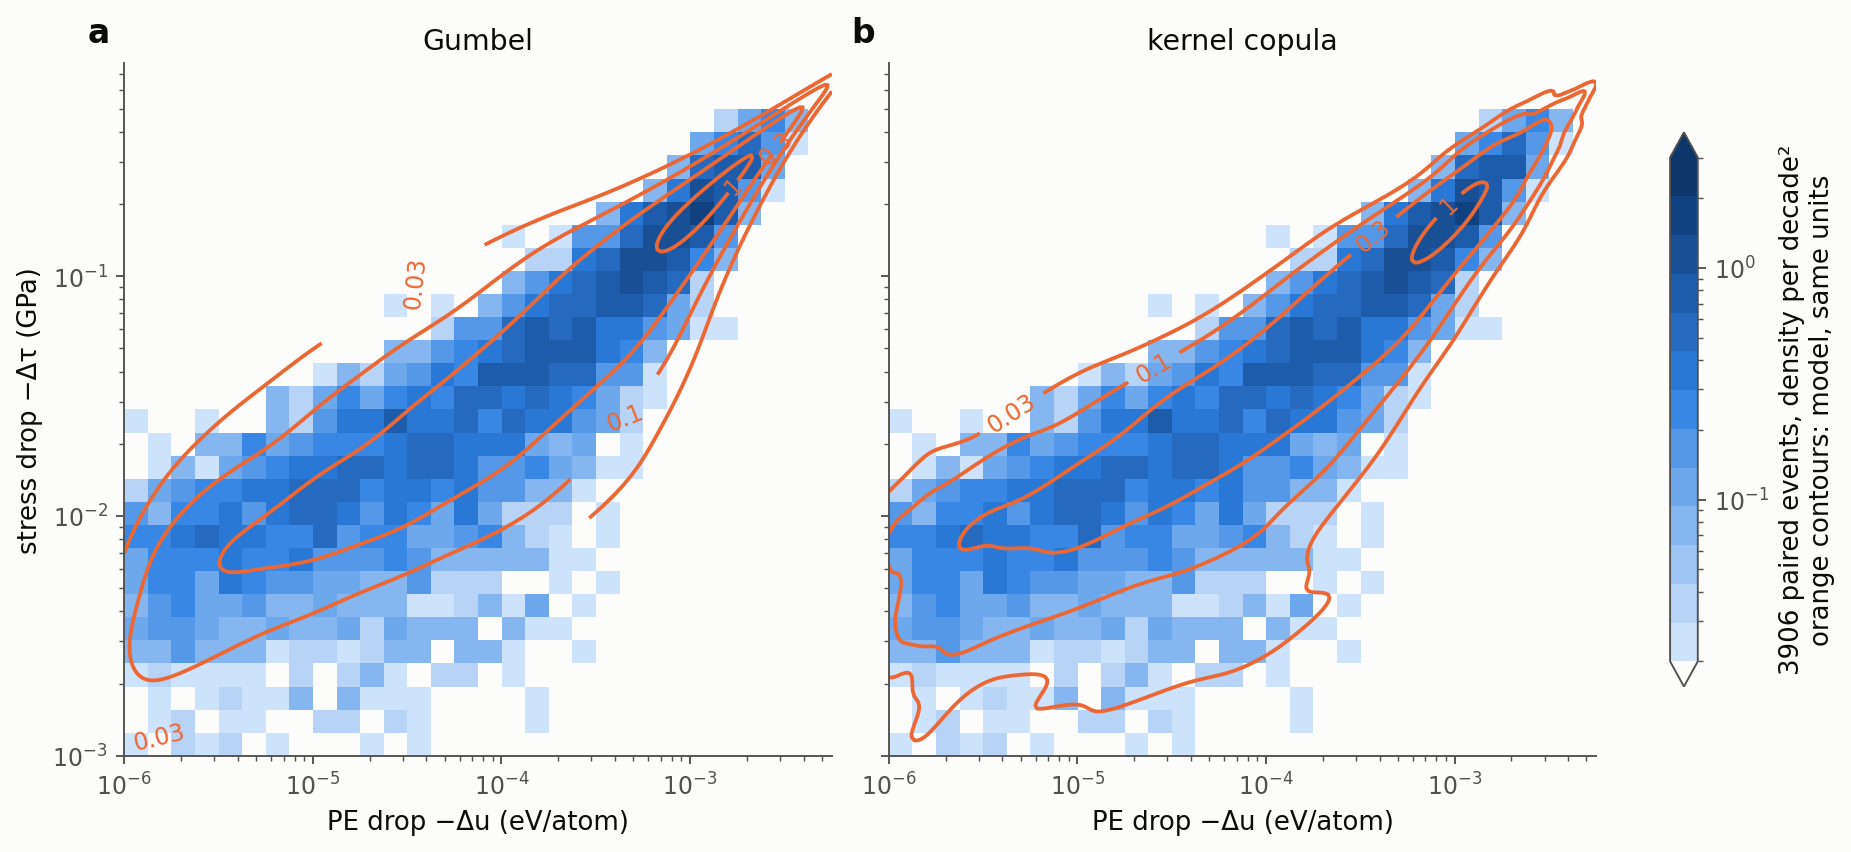
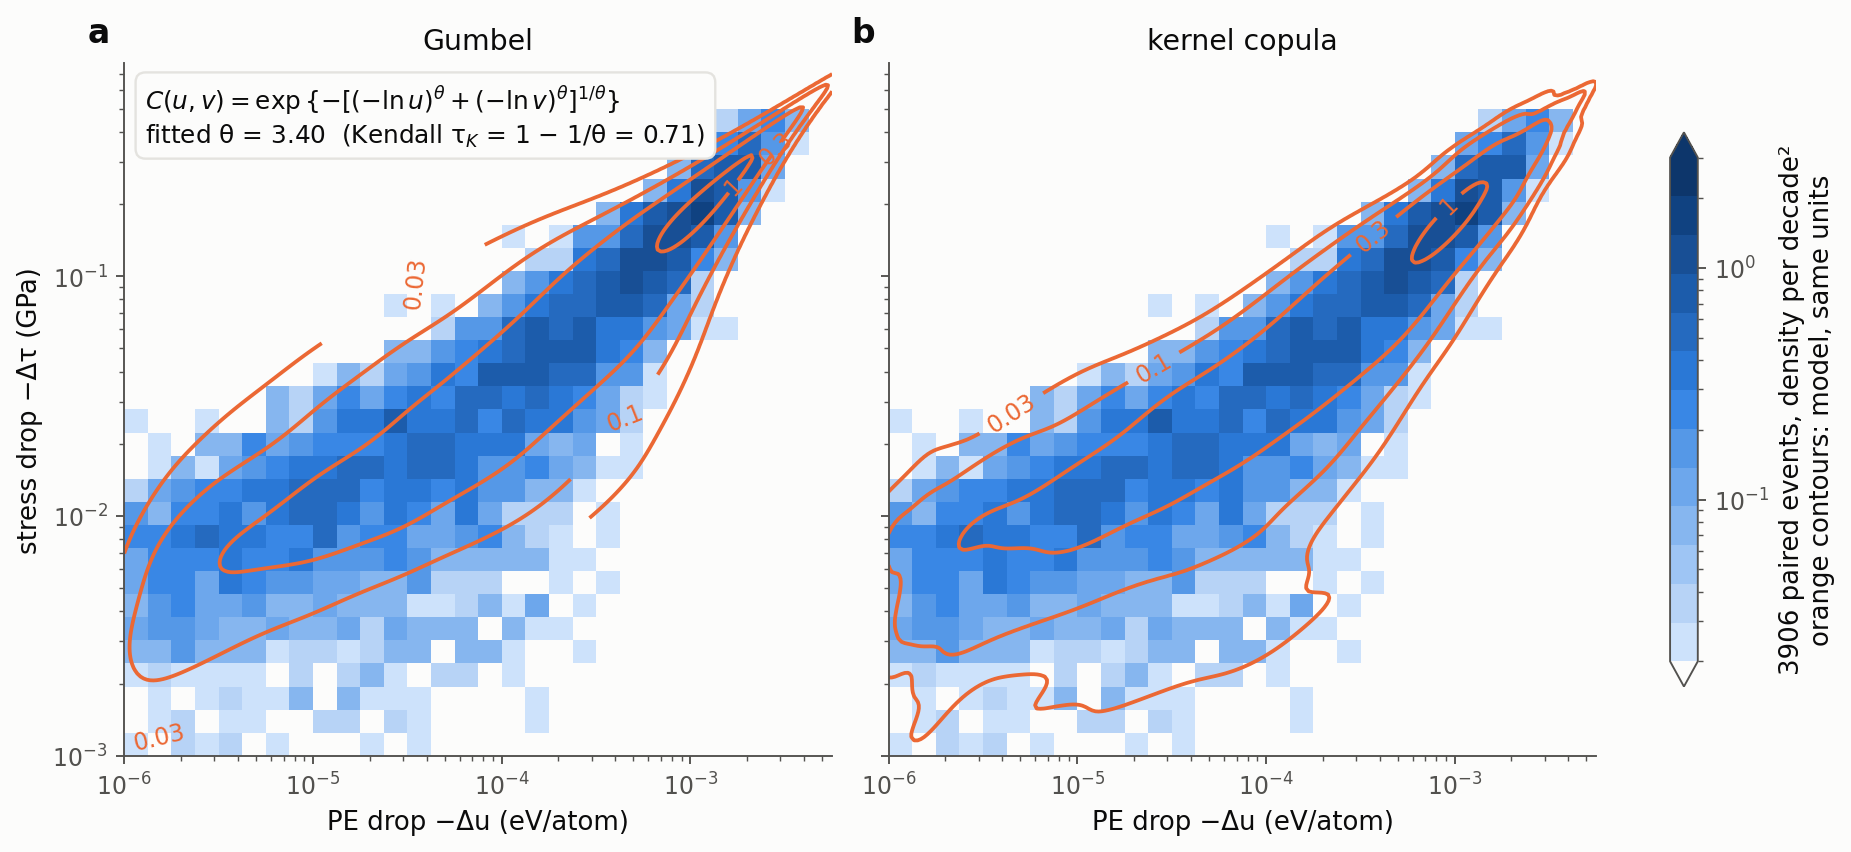
copula_shapes.png: Gumbel CDF and fitted theta on the Gumbel panel, for reference

Changed region(s): [[0.0616, 0.0915, 0.4311, 0.2136], [0.3695, 0.2746, 0.4003, 0.3357], [0.4003, 0.1221, 0.4311, 0.1526]]

diff --git a/11c_benchmark_figure.py b/11c_benchmark_figure.py
@@ -282,7 +282,13 @@ def raw_figure():
         if name == 'kernel':
             ln_c = copulas.kernel_log_density(u_all, v_all, FU.ravel(), GV.ravel(), h_all).reshape(FU.shape)
         else:
-            ln_c = copulas.log_density(name, copulas.fit_family(name, u_all, v_all)['params'], FU, GV)
+            params = copulas.fit_family(name, u_all, v_all)['params']
+            ln_c = copulas.log_density(name, params, FU, GV)
+            theta = float(np.ravel(params)[0])
+            ax.text(0.03, 0.97,'$C(u,v)=\\exp\\{-[(-\\ln u)^{\\theta}+(-\\ln v)^{\\theta}]^{1/\\theta}\\}$\n'
+                    'fitted θ = %.2f  (Kendall τ$_K$ = 1 − 1/θ = %.2f)' % (theta, 1 - 1 / theta),
+                    transform=ax.transAxes, ha='left', va='top', fontsize=10.5, color=fs.INK,
+                    bbox=dict(boxstyle='round,pad=0.4', fc=fs.SURFACE, ec=fs.GRID))
         dens = np.exp(ln_c) * f[None, :] * g[:, None]
         print('%s: max raw density %.2f per decade²' % (name, dens.max()))
         im = ax.pcolormesh(10 ** a_edges, 10 ** b_edges, np.where(hist.T > 0, hist.T, np.nan), cmap=RANK_CMAP,
